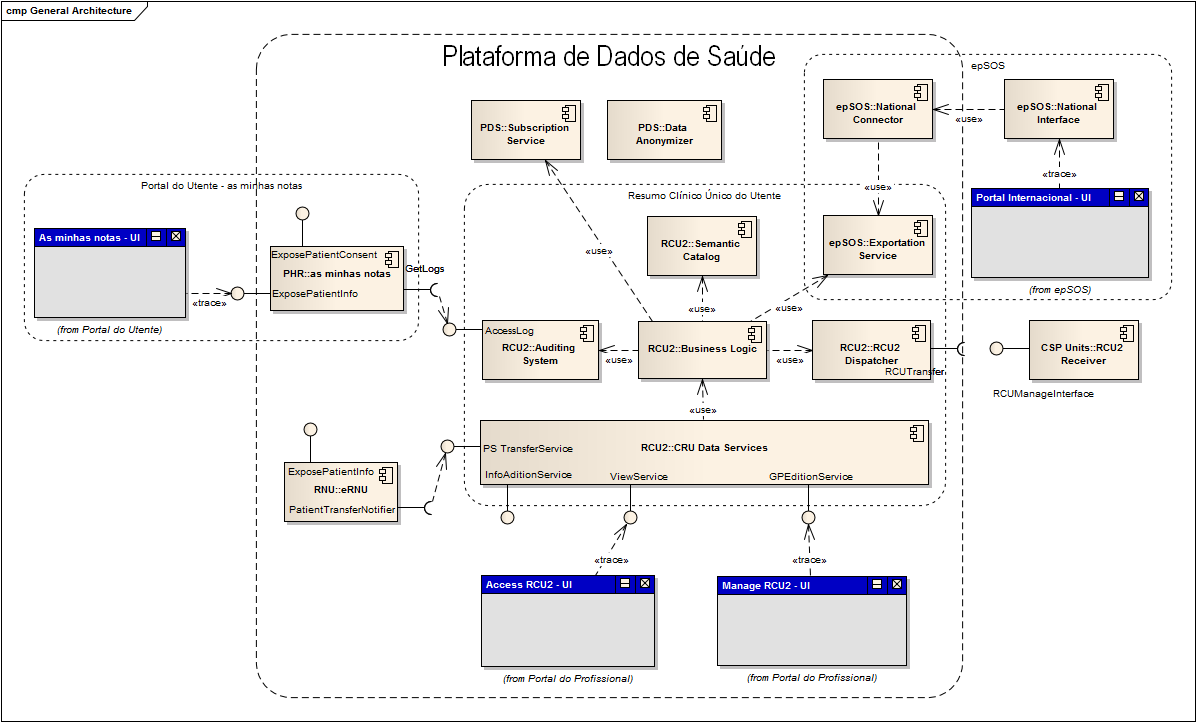
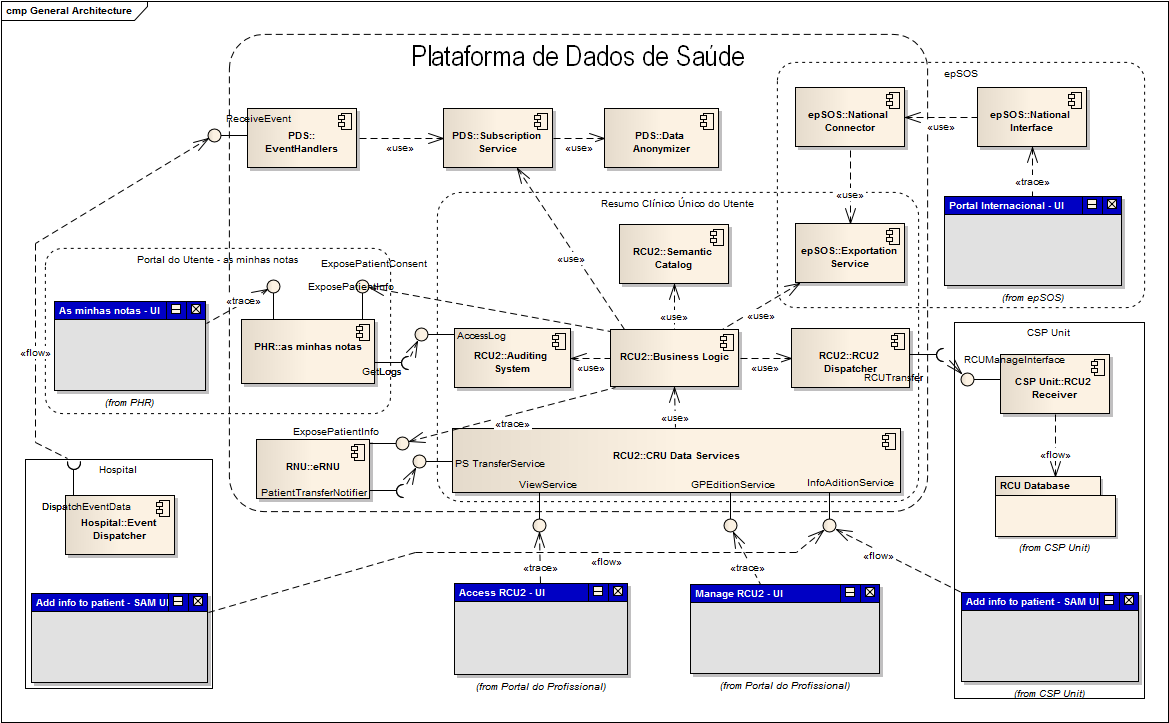
95%

diff --git a/abstract_en.tex b/abstract_en.tex
@@ -2,14 +2,16 @@
 
 The Information Technologies have revolutionized many areas of society. Since many years ago, the health area has been searching for solutions to improve existing processes, having as the main objective the improvement of healthcare services. In this sense, the availability of patient clinical data can be vital to a more effective diagnosis and treatment, by a health professional. This information should be accessible regardless of context, place, time or where it was collected. In order to share this type of data, many countries have initiated projects implementing Electronic Health Record (EHR), including Portugal in 2010.
 
-The EHR complexity and scope makes it an high cost and risk project. In fact, the inherent difficulties of a project like this are as critical as its importance and the impact it has on societies. The implementation of a successful EHR implies, in most cases, the involvement of all stakeholders, from patient to health organizations, along with the professionals themselves, becoming a very long and continuous process.
+The EHR complexity and scope makes it a high cost and risk project. In fact, the inherent difficulties of a project like this are as critical as its importance and the impact it has on societies. The implementation of a successful EHR implies, in most cases, the involvement of all stakeholders, from patient to health organizations, along with the professionals themselves, becoming a very long and continuous process.
 
-In the context of this dissertation we pretend to build a architecture proposal for implementing the Portuguese EHR. The proposed architecture should serve as a platform for sharing information between multiple health entities, normalizing processes, applying conventions and chasing interoperability among agents. The ability of the system evolution on one hand, and ease of integration in international projects on the other, are two major concerns to be taken into account throughout the proposal definition process.
+In the context of this dissertation we pretended to build an architecture proposal for implementing the Portuguese EHR. The proposed architecture should serve as a platform for sharing information between multiple health entities, normalizing processes, applying conventions and chasing interoperability among agents. The ability of the system evolution on one hand, and ease of integration in international projects on the other, were two major concerns to be taken into account throughout the proposal definition process.
 
-This document reflects the study in order to understand what processes and practices are used in implementing these large-scale projects. Accordingly, we present some models of enterprise architectures as well as some architectural styles, both corresponding to high levels of abstraction. Regarding the integration of different systems, this document addresses several international conventions for transmission, encoding and storing of clinical information, such as HL7, openEHR and SNOMED CT. Also, we briefly analyse two International EHR case studies, in UK and Canada. In conclusion it should be noted that regardless of the technical challenges that may arise, the process must always be guided by the objective of improving healthcare services to the patient.
+This dissertation project was developed in straight collaboration with the Ministry of Health. The architectural proposal results basically from the application of some ideas of Metropolis Model and Service-oriented Architectures. This proposal advocates the delimitation of the platform scope with the goal of promoting the creation of value by the stakeholders through well-defined and standardised data services.
+
+Despite of the pressure to obtain quick results, the research work concludes that it is possible to do some strategic adjustments and, with that, be able to accomplish quick wins without precluding the future met of requirements. However, the creation of an EHR is a continuous and long process that will extend for several years.
 
 \section*{}
-\textbf{Keywords:} Electronic Health Record; Health Information Systems; Interoperability; Information Systems Architecture
+\textbf{Keywords:} Electronic Health Record; Health Information Systems; Interoperability; Information Systems Architecture; Portugal
 
 \chapter*{Resumo}
 
@@ -19,10 +21,15 @@ A complexidade e abrangência faz do RSE um projecto de altos custo e risco. De 
 
 No contexto desta dissertação pretende-se construir uma proposta de arquitectura para implementação do RSE em Portugal. A arquitectura proposta deve servir como uma plataforma de partilha de informação entre as mais diversas entidades de saúde, nor\-ma\-li\-zan\-do os processos e codificações nesta área e promovendo a interoperabilidade entre os agentes. A capacidade de evolução do sistema por um lado, e a facilidade de integração em projectos internacionais por outro, são duas grandes preocupações a ter em conta ao longo do processo de definição da proposta.
 
-O presente documento reflecte o estudo feito no sentido de perceber quais os processos e práticas existentes na implementação destes projectos de larga escala. Nesse sentido, apresentam-se alguns modelos de arquitecturas empresariais assim como alguns estilos de arquitectura, ambos correspondentes a níveis de elevada abstracção. No que diz respeito à integração de diferentes sistemas, são abordadas diversas convenções internacionais para transmissão, codificação e armazenamento da informação clínica, como o HL7, SNOMED CT ou openEHR. Ainda no âmbito deste documento, são analisados dois casos de estudo internacionais do RSE, no Reino Unido e no Canadá. Para concluir, importa sublinhar que, independentemente dos desafios técnicos que se possam apresentar, o processo deve ser sempre guiado pelo objectivo principal de melhorar os cuidados de saúde ao paciente.
+Este projeto de dissertação foi desenvolvido em estreita colaboração com o Ministério da Saúde. A proposta de arquitectura resulta da aplicação de alguns principios do modelo de Metropolis e das Arquiteturas Orientadas a Serviços. A proposta elaborada defende a delimitação do âmbito da plataforma, tendo como objetivo a promoçãodo processo de criação de valor pelas partes interessadas, através de serviços de dados bem definidos e padronizados.
+
+Apesar da pressão para obter resultados rápidos, este trabalho de pesquisa concluiu que é possível fazer alguns ajustes estratégicos e, com isso, ser capaz de realizar ganhos rápidos sem que tal afecte os futuro requisitos. No entanto, a criação de um RSE é um processo contínuo e de extenso que vai durar por vários anos.
+
+
+
 
 \section*{}
-\textbf{Palavras-chave:} Registo de Saúde Eletrónico; Sistema de Informação da Saúde; Interoperabilidade; Arquitectura de Sistemas de Informação
+\textbf{Palavras-chave:} Registo de Saúde Eletrónico; Sistema de Informação da Saúde; Interoperabilidade; Arquitectura de Sistemas de Informação; Portugal
 
 %O Resumo fornece ao leitor um sumário do conteúdo da dissertação.
 %Deverá ser breve mas conter detalhe suficiente e, uma vez que é a porta

diff --git a/proposal.tex b/proposal.tex
@@ -265,7 +265,7 @@ The epSOS project may become an important catalyst to the introduction of standa
 If we will be sending the RCU2 codified with HL7 CDA, it may be interesting to start sharing it the same way internally. In order to achieve that, it will be necessary to bring the National Connector (see Section~\ref{sec:epsos_ni}) into the scope of PDS instead of staying as a service created only to epSOS. The next components seems to be fundamental:
 \begin{itemize}
 \item locate the National Connector, which could have the responsibility to transcode from RCU2 to HL7 CDA, within the PDS scope;
-\item define the services using the IHE profiles (see Section~\ref{sec:ihe}); %TODO IHE
+\item define the services using the standards (e.g. IHE profiles); %TODO (see Section~\ref{sec:ihe});
 \end{itemize}
 
 This way, it will be possible to share the standardized RCU2 not only to other countries but to several institutions, namely the private ones. Another important note is the existing dependency between this case and the \textit{Portal do Utente} in order to confirm the patient consents.
@@ -391,19 +391,9 @@ The urgency for this record is recognized amongst the professionals working in t
 %TODO falar sobre a aplicação ao publico com objectivo de estender ao privado
 %TODO falar instituções que não registam electronicamente
 
+\section{Architecture Overview}
 
-\begin{landscape}
-\centering     % optional, probably makes it look better to have it centered on the page
-\mycustomfigure{general_architecture}{General view of the architecture future vision}{height=0.9\textheight}
-\end{landscape}
-
-\section{Summary}
-
-%TODO finish
-%TODO estratégia: o que é novo e para fora deve ser com standards
-%TODO quem nao regista electronicamente
-
-The entity responsible for planning this change process defined four essential projects:
+The overview is constituted by four essential modules. The entity (CIC) responsible for planning this change process defined the following projects:
 \begin{itemize}
 \item \textit{Portal do Utente (as minhas notas)} -- the Portuguese PHR;
 \item \textit{Resumo Clínico Único do Utente} -- the Portuguese Patient Summary;
@@ -411,7 +401,8 @@ The entity responsible for planning this change process defined four essential p
 \item \textit{Portal do Profissional} -- the portal where the professionals access the patient clinical data.
 \end{itemize}
 
-All these projects are interconnected by a platform created with that goal and named \textit{Plataforma de Dados de Saúde}. The future vision is based on limiting the scope of PDS to the minimum, removing all the user interfaces clients from its scope. To do this, it is necessary to implement services and interface that those client interface can use to present the information. This way, it is possible in future to open that services to other stakeholders, letting them construct alternatives to the official clients nd new ways of using that information. These future ``investors'' may be companies that build software to the healthcare arena as well as private healthcare institutions.
+All these projects are supposed to be interconnected by a platform created with that goal and named \textit{Pla\-ta\-for\-ma de Dados de Saúde}. The future vision, represented by the Figure~\ref{fig:general-architecture} is based on limiting the scope of PDS to the minimum, removing all the user interfaces clients from its scope. To do this, it is necessary to implement services and interface that those client interface can use to present the information. This way, it is possible in future to open that services to other stakeholders, letting them construct alternatives to the official clients nd new ways of using that information. These future ``investors'' may be companies that build software to the healthcare arena as well as private healthcare institutions.
+
 
 The obvious response to the problem of exchanging clinical information is using well-known standards. Although, in the chaotic context of several systems and applications not talking with each other that is not a reasonable answer. So, having this scenario into account it is possible to point out these guidelines:
 \begin{itemize}
@@ -439,6 +430,12 @@ group the RCU2 into real data warehouses by regions with reliable backup systems
 { designing and discussing the new background system and the \textit{Portal Internacional} & integrate the National Connector into the PDS }
 { completely dependent of other services like \textit{Portal do Utente} or RCU2 & - }
 { - & define the services of NC using IHE profiles; necessity for an Healthcare Professional Identity Provider }
+
+
+\begin{landscape}
+\centering     % optional, probably makes it look better to have it centered on the page
+\mycustomfigure{general_architecture}{General view of the architecture future vision}{height=0.99\textheight}
+\end{landscape}
 
 %\mysummary{sum-pds}{Summary of PDS and \textit{Portal do Professional}}
 %{}

diff --git a/chapter3.tex b/chapter3.tex
@@ -132,7 +132,7 @@ In order to provide an high level of interoperability, openEHR suggests the enga
 
 Beyond the reference information model, the openEHR framework includes other resources that help the implementation following this standard, such as the ADL (Archetype Definition Language) language for expressing archetypes, an archetype library and a collection of open source implementations. As an example (Figure~\ref{fig:openehr-adl}), we can restrict a generic Observation class to, for example, a Blood Pressure archetype.
 
-\begin{figure}[h]
+\begin{figure}[t]
 \centering
 \includegraphics[width=0.7\textwidth]{openehr-adl}
 \caption[The ADL definition of Complete Blood Count archetype]{The ADL definition of Complete Blood Count archetype ~\citep{Eichelberg2005}}
@@ -293,7 +293,7 @@ The NHS Interoperability Toolkit is a set of standards, frameworks and implement
 
 One of the key concepts of ITK is the use of a maturity-based approach, allowing the organizations to evolve through small steps, particularly for CDA documents. The step-by-step maturity model allows the organization to incrementally progress from sharing binary data to sharing fully-coded CDA documents.
 
-\begin{figure}[h]
+\begin{figure}[t]
 \centering
 \includegraphics[width=0.8\textwidth]{itk-maturitymodel}
 \caption[The NHS ITK Maturity Model]{The NHS ITK Maturity Model~\citep{Health2012}}

diff --git a/acknows_en.tex b/acknows_en.tex
@@ -1,14 +1,6 @@
 \chapter*{Acknowledgements}
 
-Aliquam id dui. Nulla facilisi. Nullam ligula nunc, viverra a, iaculis
-at, faucibus quis, sapien. Cum sociis natoque penatibus et magnis dis
-parturient montes, nascetur ridiculus mus. Curabitur magna ligula,
-ornare luctus, aliquam non, aliquet at, tortor. Donec iaculis nulla
-sed eros. Sed felis. Nam lobortis libero. Pellentesque
-odio. Suspendisse potenti. Morbi imperdiet rhoncus magna. Morbi
-vestibulum interdum turpis. Pellentesque varius. Morbi nulla urna,
-euismod in, molestie ac, placerat in, orci. 
-
+To all of those who contributed in some how to the success of this dissertation work.
 
 \vspace{10mm}
 \flushleft{Eduardo Pinto}

diff --git a/mieic_en.tex b/mieic_en.tex
@@ -24,8 +24,8 @@
 %% English version
 
 %% MIEIC options
-\usepackage[mieic]{feupteses}
-%\usepackage[mieic,juri]{feupteses}
+%\usepackage[mieic]{feupteses}
+\usepackage[mieic,juri]{feupteses}
 %\usepackage[mieic,final]{feupteses}
 %\usepackage[mieic,final,onpaper]{feupteses}
 
@@ -66,6 +66,7 @@
  escapeinside={\%*}{*)},            % if you want to add a comment within your code
  morekeywords={*,var,template,new}  % if you want to add more keywords to the set
 }
+
 
 %% Package to allow footnotes in floats
 \usepackage{fmtcount}
